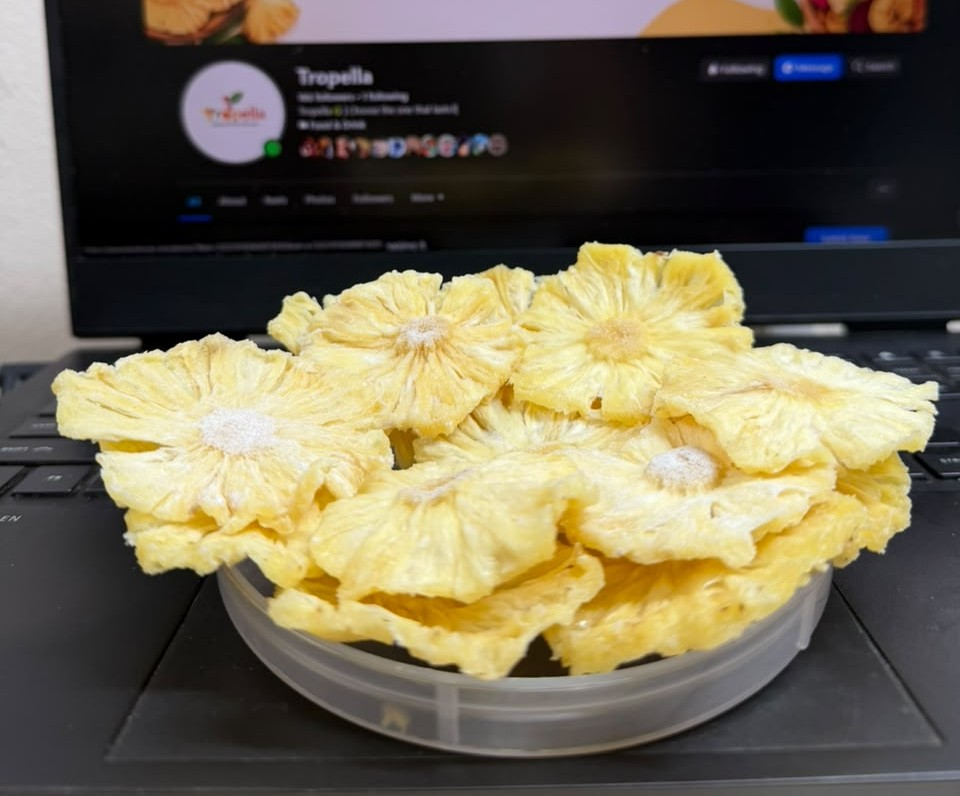
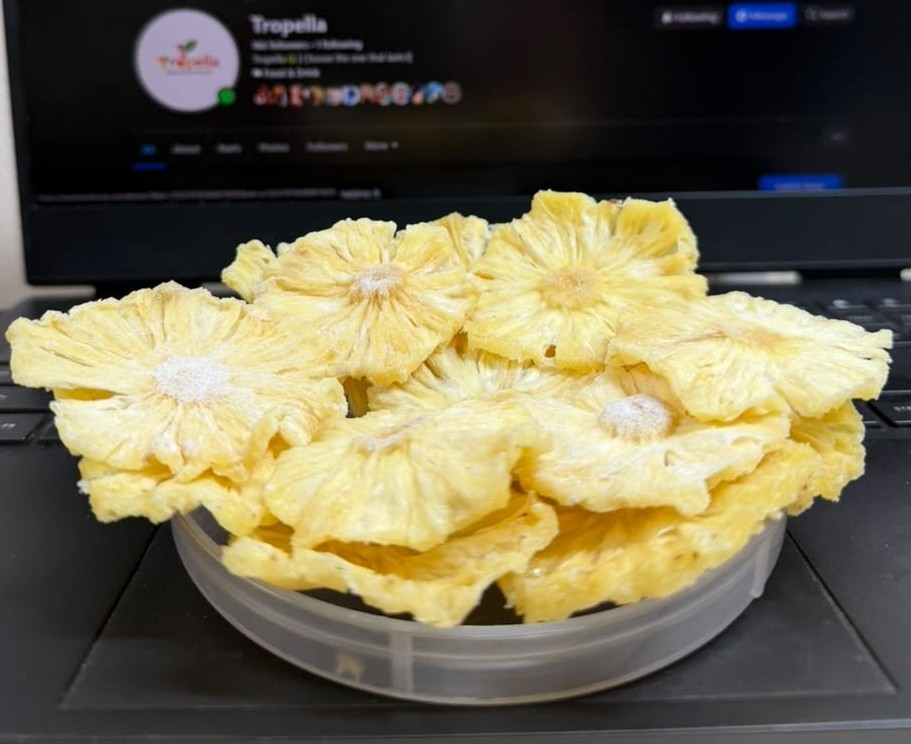
Add mango peel and green chili powders, new sweetened pineapple photo

diff --git a/lib/products.ts b/lib/products.ts
@@ -133,8 +133,8 @@ export const PRODUCT_DETAILS: ProductDetail[] = [
     description:
       "Pineapple rings with a light sugar coating, dried until soft and chewy. A sweet tropical treat to enjoy on its own or on top of your favourite desserts.",
     tags: ["Fruit", "Slices", "Sweetened"],
-    image: "/pineapple_sugar.jpeg",
-    imageAlt: "Sugar-coated dried pineapple slices in a bowl",
+    image: "/dried_sweet_pineapple_slices.jpeg",
+    imageAlt: "Sweetened dried pineapple rings piled on a plate",
     usage: [
       { icon: "nutrition", label: "Sweet snack" },
       { icon: "cake", label: "Top cakes & puddings" },
@@ -267,6 +267,54 @@ export const PRODUCT_DETAILS: ProductDetail[] = [
       "No peeling, cutting or cooking",
     ],
     tip: "Mix with warm water or milk for a quick pumpkin purée.",
+  },
+  {
+    slug: "mango-peel-powder",
+    tone: "brand",
+    badge: "FRUIT · POWDER",
+    title: "Mango Peel Powder",
+    tagline: "Tangy, fruity powder from sun-dried mango peel.",
+    description:
+      "Mango peels, dried and finely milled into a soft golden powder with a tangy, fruity flavour. Stir it into drinks, chutneys and bakes for a gentle mango note — nothing from the fruit goes to waste.",
+    tags: ["Fruit", "Powder"],
+    image: "/mango_peel_powder.jpeg",
+    imageAlt: "Mound of golden mango peel powder on a plate",
+    usage: [
+      { icon: "blender", label: "Blend into smoothies" },
+      { icon: "restaurant", label: "Season chutneys & dressings" },
+      { icon: "bakery_dining", label: "Add to dough or batter" },
+      { icon: "emoji_food_beverage", label: "Stir into warm drinks" },
+    ],
+    benefits: [
+      "Tangy, fruity mango flavour",
+      "Made from the whole fruit — less waste",
+      "Easy to measure and store",
+    ],
+    tip: "Start with a teaspoon. The tangy flavour builds as it sits.",
+  },
+  {
+    slug: "green-chili-powder",
+    tone: "leaf",
+    badge: "VEGETABLE · POWDER",
+    title: "Green Chili Powder",
+    tagline: "Fresh, grassy heat in a fine green powder.",
+    description:
+      "Green chilies, dried and ground into a fine powder that keeps their fresh, grassy heat. Add a kick to curries, marinades and snacks without chopping a single chili.",
+    tags: ["Vegetable", "Powder"],
+    image: "/green_chili_powder.jpeg",
+    imageAlt: "Mound of green chili powder on a plate",
+    usage: [
+      { icon: "skillet", label: "Spice up curries & stir-fries" },
+      { icon: "outdoor_grill", label: "Add to marinades & rubs" },
+      { icon: "tapas", label: "Sprinkle on snacks & fries" },
+      { icon: "soup_kitchen", label: "Season soups & dals" },
+    ],
+    benefits: [
+      "Fresh green-chili heat and flavour",
+      "No chopping, no stinging hands",
+      "A pinch goes a long way",
+    ],
+    tip: "Add a pinch at a time. It's easy to add heat, hard to take it away.",
   },
 ];
 

diff --git a/components/sections/range.tsx b/components/sections/range.tsx
@@ -58,7 +58,7 @@ const PRODUCTS: RangeItem[] = [
     title: "Sweetened Dried Pineapple Slices",
     description: "Sugar-kissed golden rings, soft & chewy",
     tags: ["Fruit", "Slices", "Sweetened"],
-    image: "/pineapple_sugar.jpeg",
+    image: "/dried_sweet_pineapple_slices.jpeg",
     placeholder: "Sweetened dried pineapple slices",
     span: "lg:col-span-3",
   },
@@ -117,6 +117,28 @@ const PRODUCTS: RangeItem[] = [
     placeholder: "Pumpkin powder",
     span: "sm:col-span-2 lg:col-span-3",
   },
+  {
+    tone: "brand",
+    href: "/products/mango-peel-powder",
+    badge: "FRUIT",
+    title: "Mango Peel Powder",
+    description: "Tangy, fruity powder from sun-dried peel",
+    tags: ["Fruit", "Powder"],
+    image: "/mango_peel_powder.jpeg",
+    placeholder: "Mango peel powder",
+    span: "lg:col-span-3",
+  },
+  {
+    tone: "leaf",
+    href: "/products/green-chili-powder",
+    badge: "VEGETABLE",
+    title: "Green Chili Powder",
+    description: "Fresh, grassy heat in a fine green powder",
+    tags: ["Vegetable", "Powder"],
+    image: "/green_chili_powder.jpeg",
+    placeholder: "Green chili powder",
+    span: "lg:col-span-3",
+  },
 ];
 
 export function Range() {
@@ -132,7 +154,7 @@ export function Range() {
           </h2>
         </div>
         <p className="max-w-[330px] text-[16px] leading-[1.55] text-ink-dim">
-          Ten core products, each available retail-ready or in bulk for
+          Twelve core products, each available retail-ready or in bulk for
           manufacturing.
         </p>
       </Reveal>
